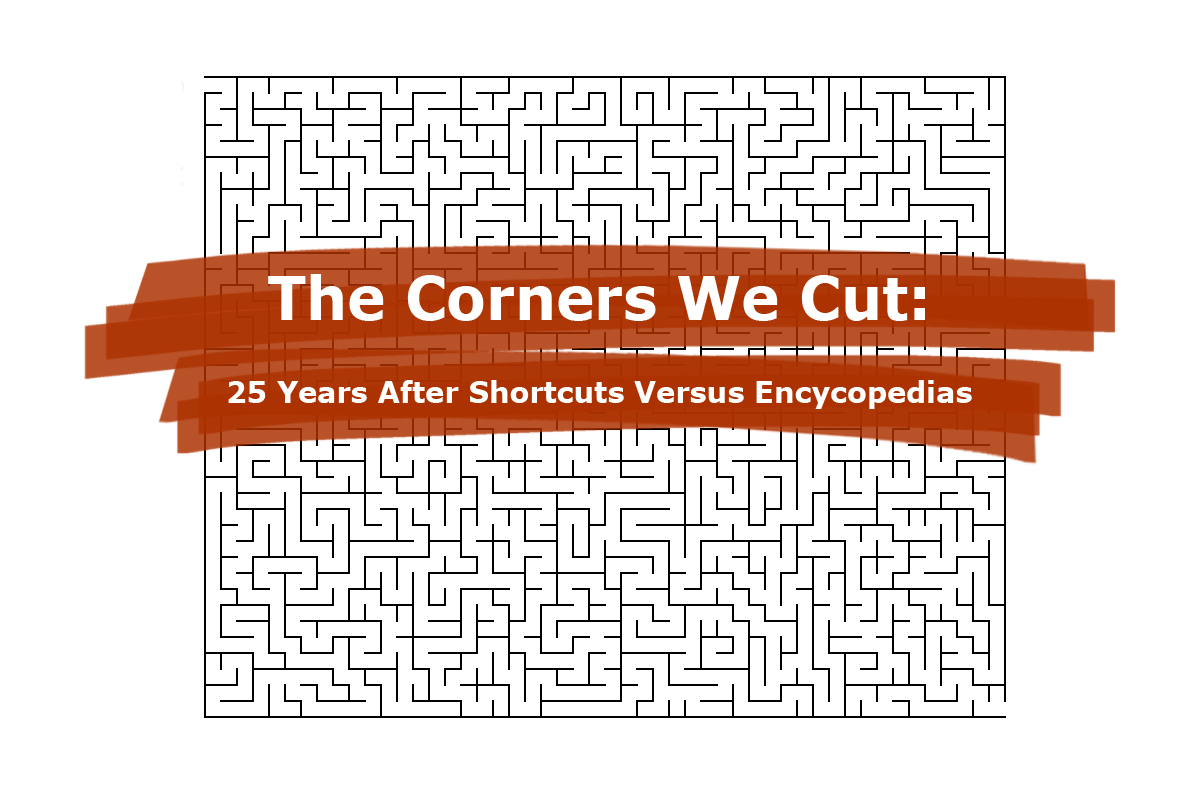
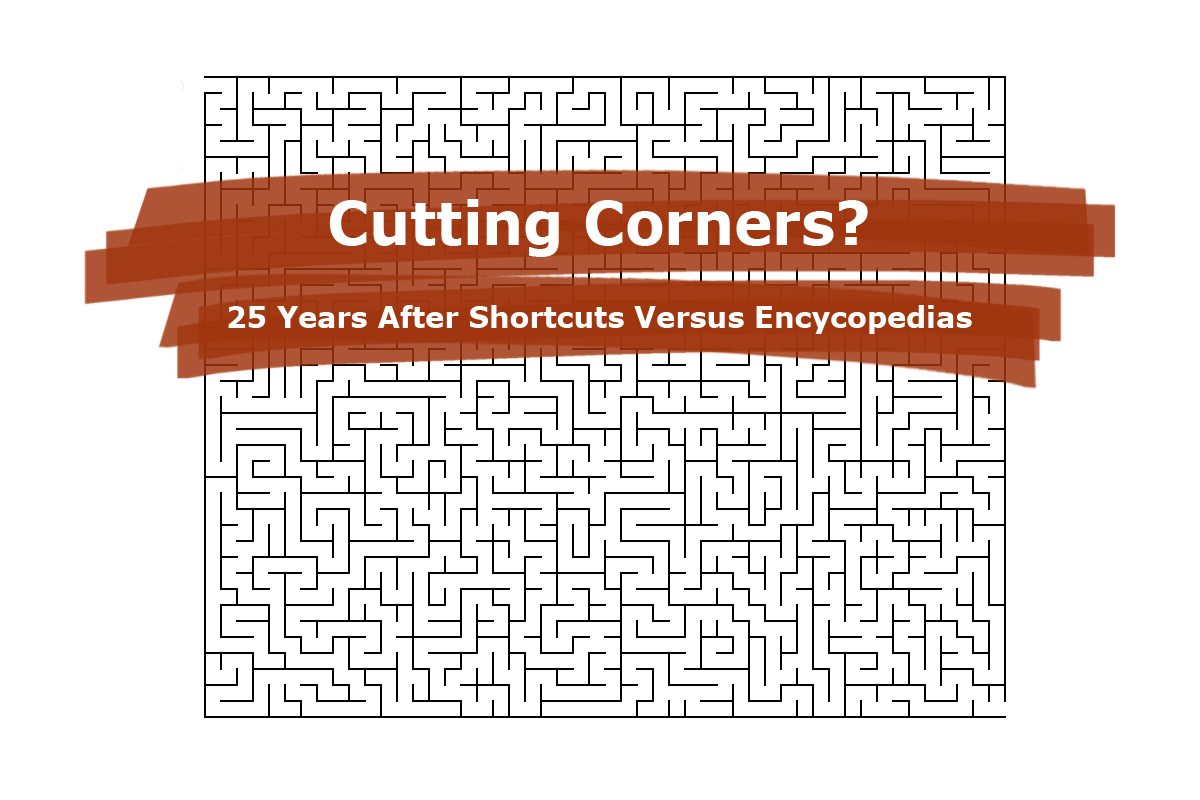
NSU033
Finally working

Changed region(s): [[0.0617, 0.1875, 0.9558, 0.5938]]

diff --git a/blog_000_lupia25.html b/blog_000_lupia25.html
@@ -441,26 +441,18 @@ $(document).ready(function () {
 </div>
 
 
-<div class="wideboi" style="width: 80vw; text-align: center; top: 0; z-index: 0; 
-background-image: url("blog/blog_000_lupia25_files/shortcuts.jpg");
- background-repeat: no-repeat;
- background-attachment: fixed;
- background-size: cover;">
-<style>
-body{
- background-image: url("blog/blog_000_lupia25_files/shortcuts.jpg");
- background-repeat: no-repeat;
- background-attachment: fixed;
- background-size: cover;
-}
-</style>
-<div class="section" style="position: fixed; top: 0; width: 80vw; height: auto; margin-left: 10vw; border: 2px none blue; z-index: 0">
-<div class="desc" style="position: relative; margin-top: 40vh; height: 20vh; overflow: scroll; z-index: 0; ">
-<p id="abstract"><b>Abstract:</b><br>Arthur Lupia's 1994 "Shortcuts Versus Encyclopedias" presents optimistic results suggesting that low-information electors behave remarkably similar to high-information electors at the ballot box. Here I celebrate the 25th anniversary of this seminal article's publishing by revisiting its central themes using Lupia's original data. Below I identify and discuss two issues with the original article: 1) the survey's knowledge battery does not measure the type of knowledge that should be established as the normative standard for informed voting; 2) the knowledge scale construction rewards nonresponses with higher scores, despite their observation equivalence to uncertainty and, are a result, distorts respondents' true knowledge score. Correcting for the second issue, the general patterns Lupia's central findings hold, though not nearly to such an extreme degree as presented in the original article.</p></div></div></div>
+<div class="wideboi" style="text-align: center; position: absolute; top: 0; z-index:0;">
+<div class="wideboi" style="text-align: center; position: absolute; top: 0; z-index:0; border: 2px none blue;">
+<img
+    style="object-fit: contain; margin: auto; padding-top: 8vh; height: 80vh; mix-blend-mode: multiply"
+    src="blog/blog_000_lupia25_files/shortcuts.jpg">
+<div class="desc" style="position: absolute; bottom: 10vh; width: 60vw; height: 20vh; margin-left: 20vw; border: 2px none blue; overflow: scroll;">
+<p id="abstract">
+<b>Abstract:</b><br>Arthur Lupia’s 1994 “Shortcuts Versus Encyclopedias” presents optimistic results suggesting that low-information electors behave remarkably similar to high-information electors at the ballot box. Here I celebrate the 25th anniversary of this seminal article’s publishing by revisiting its central themes using Lupia’s original data. Below I identify and discuss two issues with the original article: 1) the survey’s knowledge battery does not measure the type of knowledge that should be established as the normative standard for informed voting; 2) the knowledge scale construction rewards nonresponses with higher scores, despite their observation equivalence to uncertainty and, are a result, distorts respondents’ true knowledge score. Correcting for the second issue, the general patterns Lupia’s central findings hold, though not nearly to such an extreme degree as presented in the original article.
+</p>
 </div>
-<div class="section" style="width: 100vw; left: 0; margin-top: 80vh; border: 2px none red; text-align: center; background-color: white; z-index: 3">
-<div style="width: 100vw; text-align: center; border: 2px none black; margin-top: 8vh;">
-<div class="section" style="width: 60vw; margin-left: 20vw; border: 1px none #A3350D; background-color: none; text-align: left; padding: 5px;">
+</div>
+<div class="section" style="text-align: left; margin-top: 80vh; margin-left: 20vw; width: 60vw; border: 2px none red;">
 <!-- Civic Competence -->
 <h3>
 Introduction

diff --git a/index.html b/index.html
@@ -380,14 +380,12 @@ $(document).ready(function () {
 <!-- style -->
 <link rel="stylesheet" href="style.css" type="text/css"> <link rel="shortcut icon" href="https://www.dropbox.com/s/8nglbmcubk7bl7y/favicon.png?dl=0"> <link rel="icon" href="https://www.dropbox.com/s/8nglbmcubk7bl7y/favicon.png?dl=0"> <!-- Load an icon library --> <link rel="stylesheet" href="https://cdnjs.cloudflare.com/ajax/libs/font-awesome/5.10.2/css/all.min.css"> <!-- header -->
 <div class="topnav">
-<hr style="position: absolute; top: 3vh; margin-top: 40px; left: 25vw; width: 50%; border-color: #A3350D;">
-</hr>
 <div class="landing">
-<a href="index.html"><img class="logo" style="object-fit: cover;" src="images/NSU_logorgb.jpg"></a>
+<a href="index.html"><h8 style="font-size: 28px; margin-left: 10px;">JOSEPH BROAD</h8></a>
 </div>
 <ul style="margin-left: -1.5vw">
 <li>
-<a href="index.html"><h7 class="active">HOME</h7></a>
+<a href="index.html"><h7>HOME</h7></a>
 </li>
 <li>
 <a href="blog.html"><h7>BLOG</h7></a>
@@ -397,6 +395,22 @@ $(document).ready(function () {
 </li>
 </ul>
 </div>
+<script>
+$(window).scroll(function() {
+    if ( $(window).scrollTop() >= 100 ) {
+        $('.logo').css('opacity', '0');
+        $('.logo').css('transition', '.3s');
+        $('.topnav, .footer').css('height', '8vh');
+        $('.topnav, .footer').css('transition-timing-function', 'ease');
+        $('.topnav, .footer, .sidebar').css('transition-duration', '.4s');
+        $('.topnav, .footer, .sidebar').css('transition-delay', '.1s');
+        $('.sidebar').css('right', '0');
+    } else {
+        $('.logo, .topnav, .footer, .sidebar').attr('style', '');
+
+    }
+});
+</script>
 <!-- Footer -->
 <div class="footer">
 <ulb> <lib style="padding-left: 15px; padding-right: 15px;"> <lib><a href="mailto:jbroad@ucdavis.edu"><i class="fas fa-lg fa-envelope"></i></a></lib> <lib><a href="https://github.com/jbroad"><i class="fab fa-lg fa-github"></i></a></lib> <lib><a href="https://twitter.com/therealjoebroad"><i class="fab fa-lg fa-twitter"></i></a></lib> <lib><a href="https://www.linkedin.com/in/joseph-broad-557071a9/"><i class="fab fa-lg fa-linkedin"></i></a></lib> </lib> </ulb>

diff --git a/blogtest.html b/blogtest.html
@@ -440,16 +440,18 @@ $(document).ready(function () {
 </div>
 
 
-<style>
-body{
- background-image: url("blog/blog_000_lupia25_files/shortcuts.jpg");
- background-repeat: no-repeat;
- background-attachment: fixed;
- background-size: cover;
-}
-</style>
-<div class="frost" style="border: 4px solid red">
+<div class="wideboi" style="text-align: center; position: absolute; top: 0; z-index:0;">
+<div class="wideboi" style="text-align: center; position: absolute; top: 0; z-index:0; border: 2px solid blue;">
+<img
+    style="object-fit: contain; margin: auto; padding-top: 8vh; height: 80vh; mix-blend-mode: multiply"
+    src="blog/blog_000_lupia25_files/shortcuts.jpg">
+<div class="desc" style="position: absolute; bottom: 10vh; width: 60vw; height: 20vh; margin-left: 20vw; border: 2px solid blue; z-index: 0">
 
+</div>
+</div>
+<div class="section" style="margin-top: 80vh; border: 2px solid red; height: 200vh;">
+<p>nothing</p>
+</div>
 </div>
 
 

diff --git a/about.html b/about.html
@@ -381,11 +381,11 @@ $(document).ready(function () {
 <link rel="stylesheet" href="style.css" type="text/css"> <link rel="shortcut icon" href="https://www.dropbox.com/s/8nglbmcubk7bl7y/favicon.png?dl=0"> <link rel="icon" href="https://www.dropbox.com/s/8nglbmcubk7bl7y/favicon.png?dl=0"> <!-- Load an icon library --> <link rel="stylesheet" href="https://cdnjs.cloudflare.com/ajax/libs/font-awesome/5.10.2/css/all.min.css"> <!-- header -->
 <div class="topnav">
 <div class="landing">
-<a href="index.html"><img class="logo" style="object-fit: cover;" src="images/NSU_logorgb.jpg"></a>
+<a href="index.html"><h8 style="font-size: 28px; margin-left: 10px;">JOSEPH BROAD</h8></a>
 </div>
 <ul style="margin-left: -1.5vw">
 <li>
-<a href="index.html"><h7 class="active">HOME</h7></a>
+<a href="index.html"><h7>HOME</h7></a>
 </li>
 <li>
 <a href="blog.html"><h7>BLOG</h7></a>

diff --git a/header.html b/header.html
@@ -196,11 +196,11 @@ $(document).ready(function () {
 <link rel="stylesheet" href="style.css" type="text/css"> <link rel="shortcut icon" href="https://www.dropbox.com/s/8nglbmcubk7bl7y/favicon.png?dl=0"> <link rel="icon" href="https://www.dropbox.com/s/8nglbmcubk7bl7y/favicon.png?dl=0"> <!-- Load an icon library --> <link rel="stylesheet" href="https://cdnjs.cloudflare.com/ajax/libs/font-awesome/5.10.2/css/all.min.css"> <!-- header -->
 <div class="topnav">
 <div class="landing">
-<a href="index.html"><img class="logo" style="object-fit: cover;" src="images/NSU_logorgb.jpg"></a>
+<a href="index.html"><h8 style="font-size: 28px; margin-left: 10px;">JOSEPH BROAD</h8></a>
 </div>
 <ul style="margin-left: -1.5vw">
 <li>
-<a href="index.html"><h7 class="active">HOME</h7></a>
+<a href="index.html"><h7>HOME</h7></a>
 </li>
 <li>
 <a href="blog.html"><h7>BLOG</h7></a>

diff --git a/blog.html b/blog.html
@@ -488,21 +488,21 @@ function loadImage() {
 <div class="card">
 <a href="blog_000_lupia25.html">
 <h3>
-The Corners We Cut
+Corners Cut?
 </h3>
 </a> <p5>25 Years After Shortcuts Versus Encyclopedias</p5>
 <div class="fakeimg" onload="loadImage()" style="height:200px;">
 Image
 </div>
 <p>
-Here I celebrate the 25th anniversary of this seminal article’s publishing by revisiting its central themes using Lupia’s original data.
+Here I celebrate the 25th anniversary of this seminal article’s publishing by revisiting its central themes using the author’s original data.
 </p>
 </div>
 <div class="card">
 <h3>
 More to Come
 </h3>
-<p5>Follow me on Twitter for blog updates</p5>
+4 <p5>Follow me on Twitter for blog updates</p5>
 <div class="fakeimg" style="height:200px;">
 Image
 </div>

diff --git a/style.css b/style.css
@@ -304,7 +304,7 @@ p8 {
 }
 
 .desc:hover {
-  background-color: rgba(0,0,0,0.7);
+  background-color: rgba(0,0,0,0.9);
   transition: .3s;
 }
 
@@ -579,7 +579,7 @@ lib a:hover {
   padding: 3vh;
   width: 60vw;
   margin-left: -1px;
-  background-color: rgba(0,0,0,0.5);
+  background-color: rgba(0,0,0,0.7);
 }
 
 .readmore:hover {
